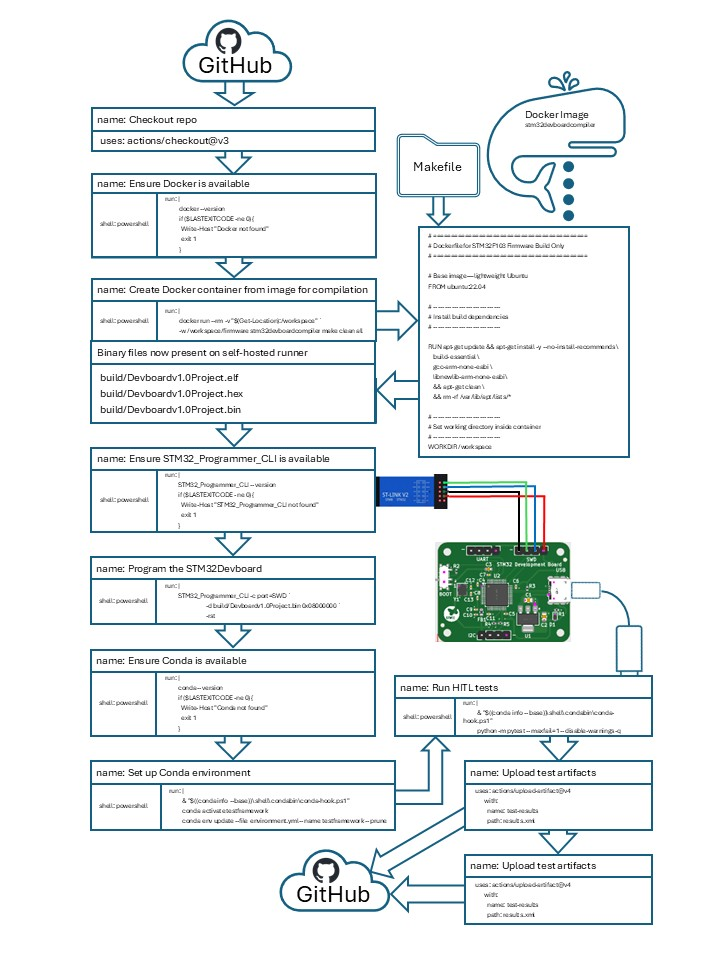
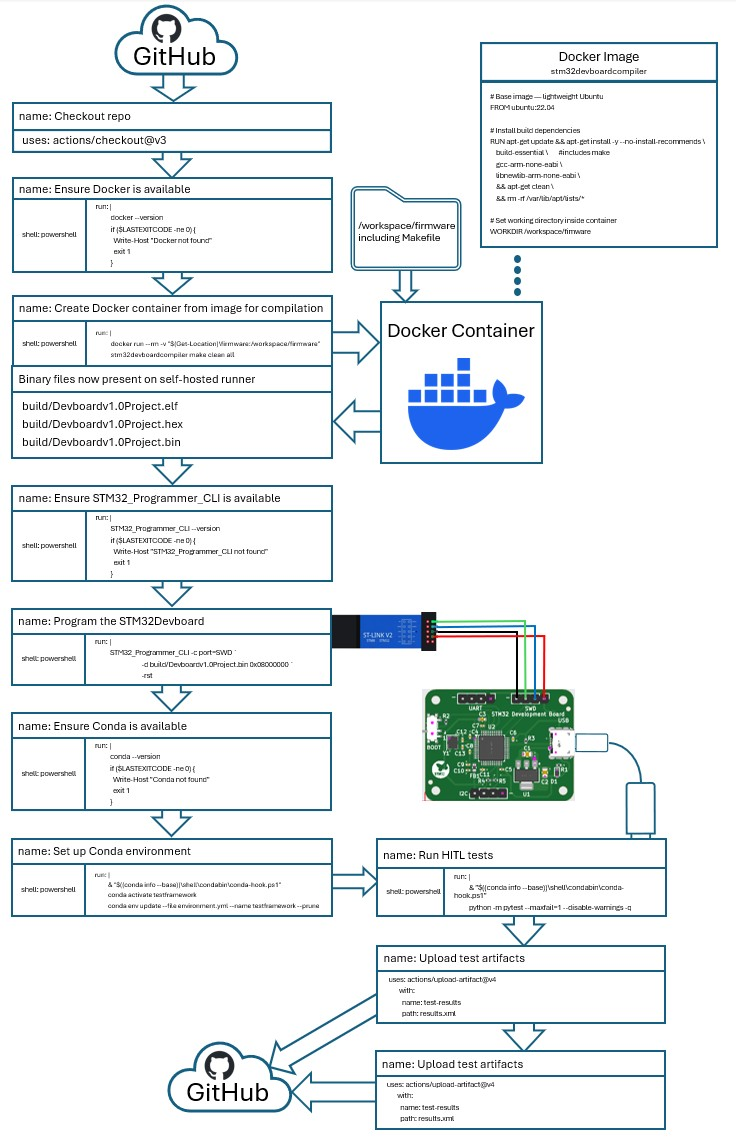
addedPicturesEditReadme

Changed region(s): [[0.0, 0.0, 0.9167, 1.0], [0.9472, 0.0312, 0.9778, 0.2188]]

diff --git a/README.md b/README.md
@@ -67,6 +67,11 @@ The PCB and schematic files are included so reviewers can inspect routing, compo
 
 This hardware is used directly in the HITL CI workflow.
 
+Note: If you wish to run this demo yourself a Blue Pill Developement board can be sustituted.
+
+Note: Credit to Phil's Lab for board design tutorial
+https://www.youtube.com/watch?v=aVUqaB0IMh4
+
 ---
 
 ## 🧩 Firmware Overview
@@ -84,6 +89,8 @@ It implements a UART command interface supporting:
 * A small set of additional commands used by the test suite
 
 This makes the board ideal for CI-driven firmware verification.
+
+Note: If running this demo use ST-LINK V2 Programmer for flashing the board.
 
 ---
 
